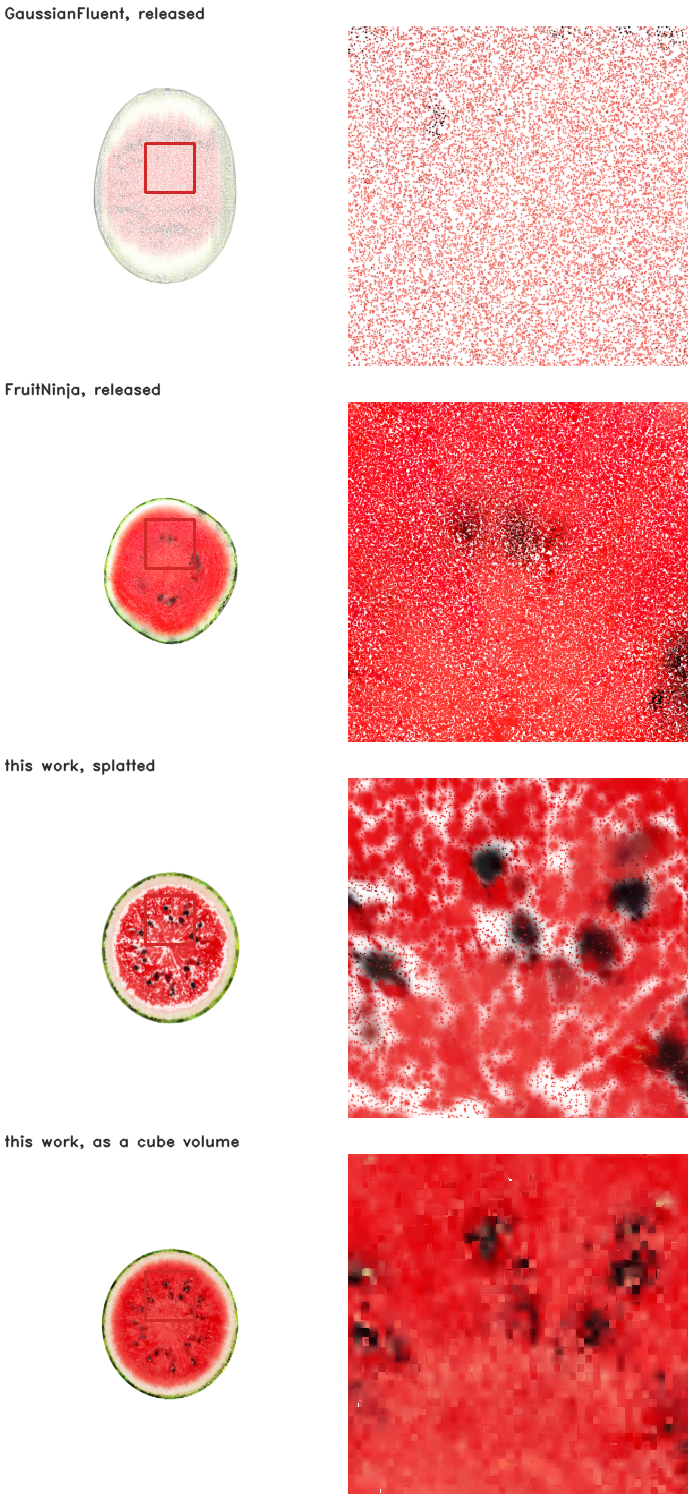
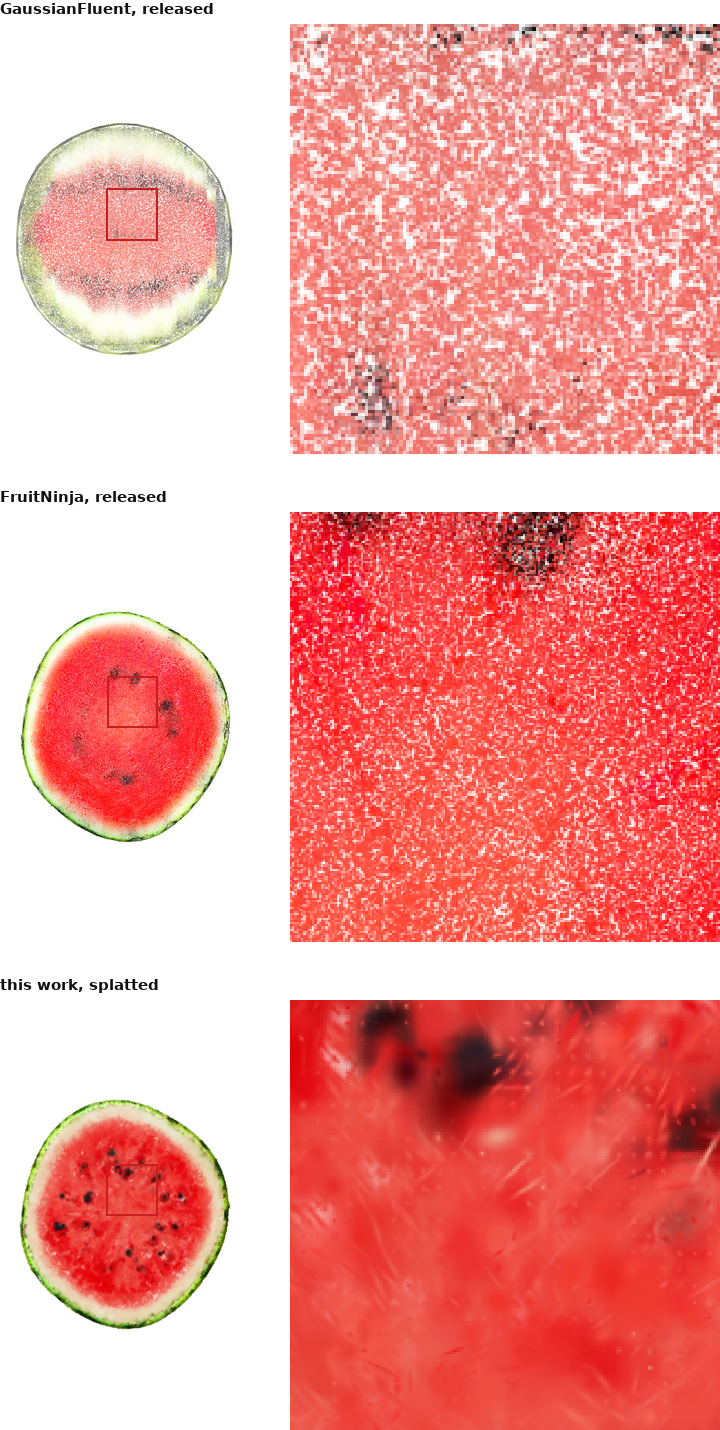
Figure 10 from this run, and the cube-volume row withdrawn
The three released arms are re-rendered at 2048 px on the same plane of the same object by the
same cutter, which the previous version was not.

The fourth row is gone rather than refreshed. It was drawn by ovox_cuts, which was measured
today to lose half the silhouette on a transverse section -- 0.153 against the Gaussian path's
0.308, with the exterior layer and resolution both excluded as causes -- and the version on the
page was additionally a different object from the three rows above it. A picture from a renderer
with a known defect is not evidence about a representation, so the row comes back when the
renderer is fixed and not before.

diff --git a/index.html b/index.html
@@ -2783,13 +2783,7 @@ are given so they are not read as one:</p>
 <figure>
   <img src="assets/zoom2048.png" alt="The same watermelon cut at 2048 px from four representations,
        each with a zoomed crop of the flesh">
-  <figcaption><span class="fnum">Figure 10</span><br>The same held-out plane at 2048&nbsp;px, each model through its own renderer, with a
-  300&nbsp;px crop of the flesh magnified on the right. What the coverage numbers are counting is
-  visible directly: GaussianFluent's section is mostly the background showing between primitives,
-  FruitNinja's is dense but speckled, and this work's own splatted lattice is mottled in the same
-  way because a route-2 cell is a Gaussian like any other. The cube volume is continuous. Its cost
-  is the other thing the crop shows, the cell quantisation, which is the silhouette error of section
-  4.3.1 seen from inside: a cube covers exactly and it covers at the resolution of a cell.</figcaption>
+  <figcaption><span class="fnum">Figure 10</span><br>The same held-out plane of the watermelon at 2048&nbsp;px, each released model through the same cutter, with a box of its own section magnified beside it. What the magnification shows is what each representation is made of: GaussianFluent leaves white between its primitives, FruitNinja&#8217;s flesh carries salt-and-pepper over a saturated red, and the splatted lattice draws a continuous fibre with the seeds whole. A fourth row, the same section drawn as a cube volume, is withdrawn: the renderer that produces it is under-drawing transverse sections by half their silhouette, which <code>code/evaluate/README.md</code> records, and a picture from a renderer with a known defect is not evidence about a representation.</figcaption>
 </figure>
 
 <p> Coverage from a splatted
